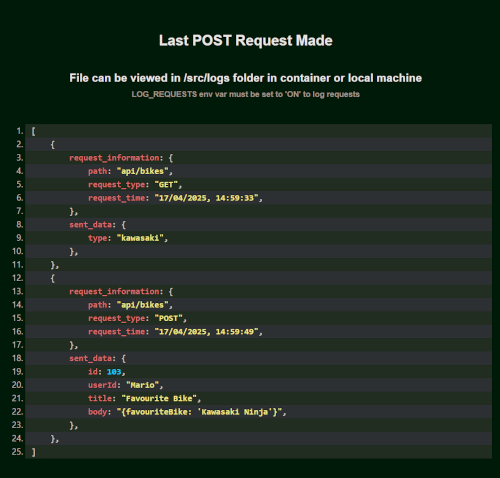
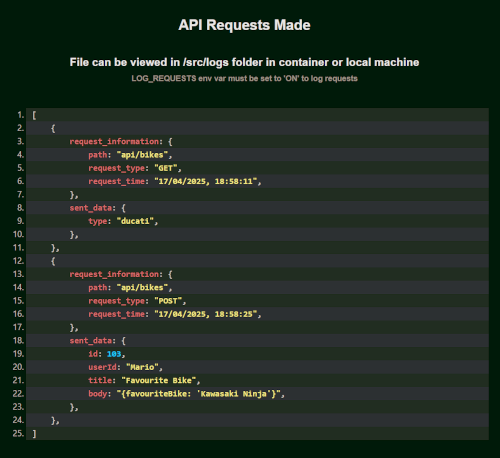
fix(): update gitignore to allow env and update server page

diff --git a/src/utilities/log-page.ts b/src/utilities/log-page.ts
@@ -29,7 +29,7 @@ const createHtml = () => {
         <title>API Request Log</title>
         </header>
             <body style="margin: 0px; background-color: #00200B; display: flex; flex-direction: column; justify-content: center; align-items: center; min-height:100vh; font-family: sans-serif;">
-            <h2 style="color:white" data-cy="logger-title">Last POST Request Made</h2>
+            <h2 style="color:white" data-cy="logger-title">API Requests Made</h2>
             <h3 style="color:white">File can be viewed in /src/logs folder in container or local machine</h3>
             <h5 style="color:grey; margin-top:-10px;">LOG_REQUESTS env var must be set to 'ON' to log requests</h5>
 <div class="json-container" style="width: 100%; padding:20px; box-sizing: border-box;">
